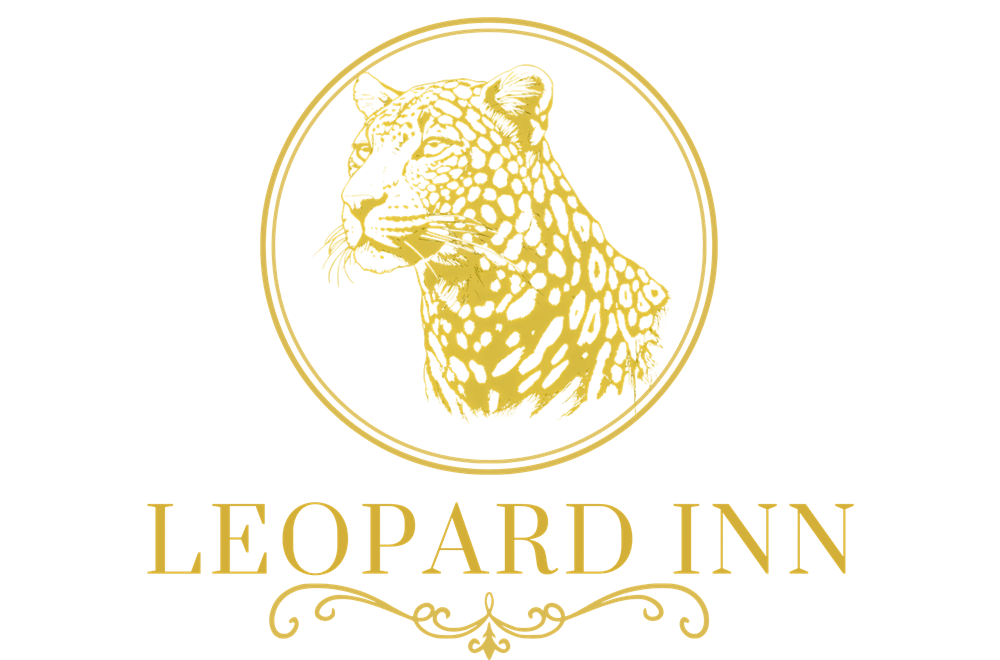
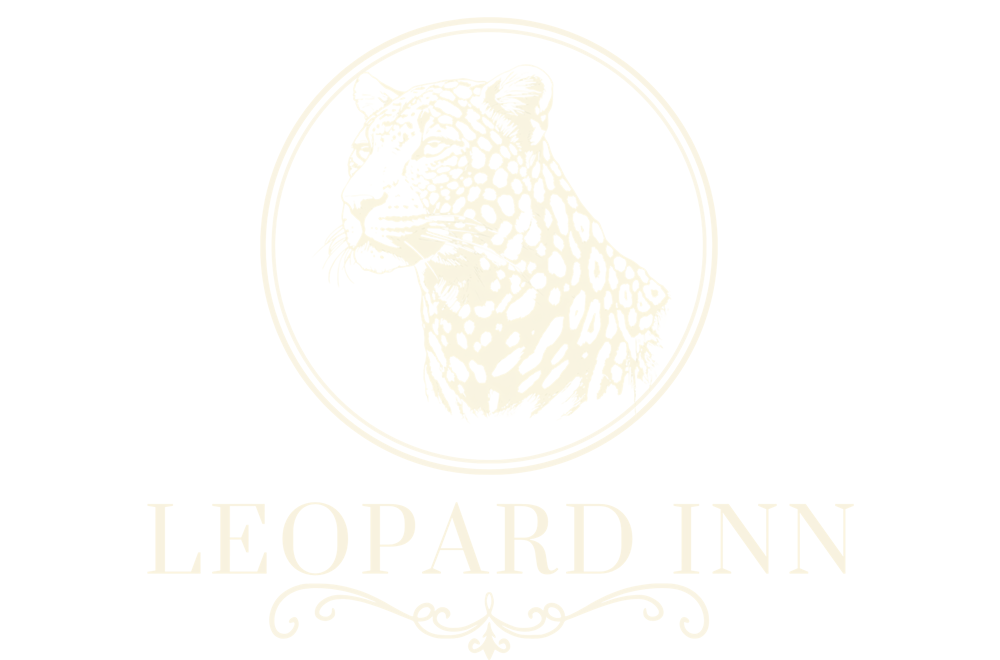
Fix real cause of black table in printed/downloaded PDFs
The earlier mask-image fix didn't catch this: a translucent
absolutely-positioned <img> (the watermark, using CSS opacity) is a
known trigger for Chromium's print-to-PDF pipeline to rasterize the
image as a solid black block instead of the faded artwork -
reproduced exactly with the user's empty-item invoice, where the
black block landed right on the item table header.

Fix: bake the faintness into the PNG's alpha channel directly and
drop the CSS opacity entirely, so there's no runtime translucency
compositing for print to get wrong. Also gave the item list wrapper
a min-height so the watermark still displays nicely when there are
no items yet.

diff --git a/style.css b/style.css
@@ -363,7 +363,7 @@ table { width: 100%; border-collapse: collapse; margin-top: 10px; }
 
 .scroll-hint { display: none; }
 
-.invoice-items-wrap { position: relative; margin-bottom: 8px; }
+.invoice-items-wrap { position: relative; margin-bottom: 8px; min-height: 150px; }
 .invoice-watermark {
   position: absolute;
   top: 50%;
@@ -372,7 +372,9 @@ table { width: 100%; border-collapse: collapse; margin-top: 10px; }
   width: 70%;
   max-width: 340px;
   object-fit: contain;
-  opacity: 0.14;
+  /* Faintness is baked into the PNG's alpha channel (not CSS opacity) —
+     translucent <img> + opacity is known to rasterize as a solid black
+     block in Chromium's print-to-PDF pipeline. */
   pointer-events: none;
   z-index: 0;
 }
